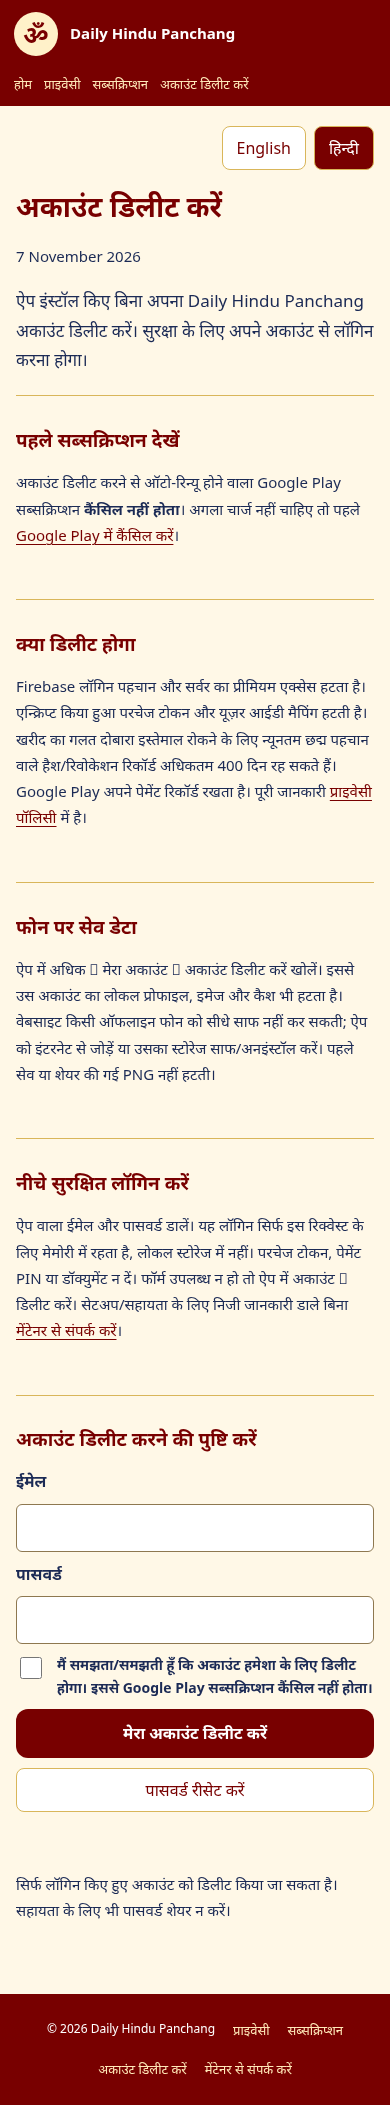
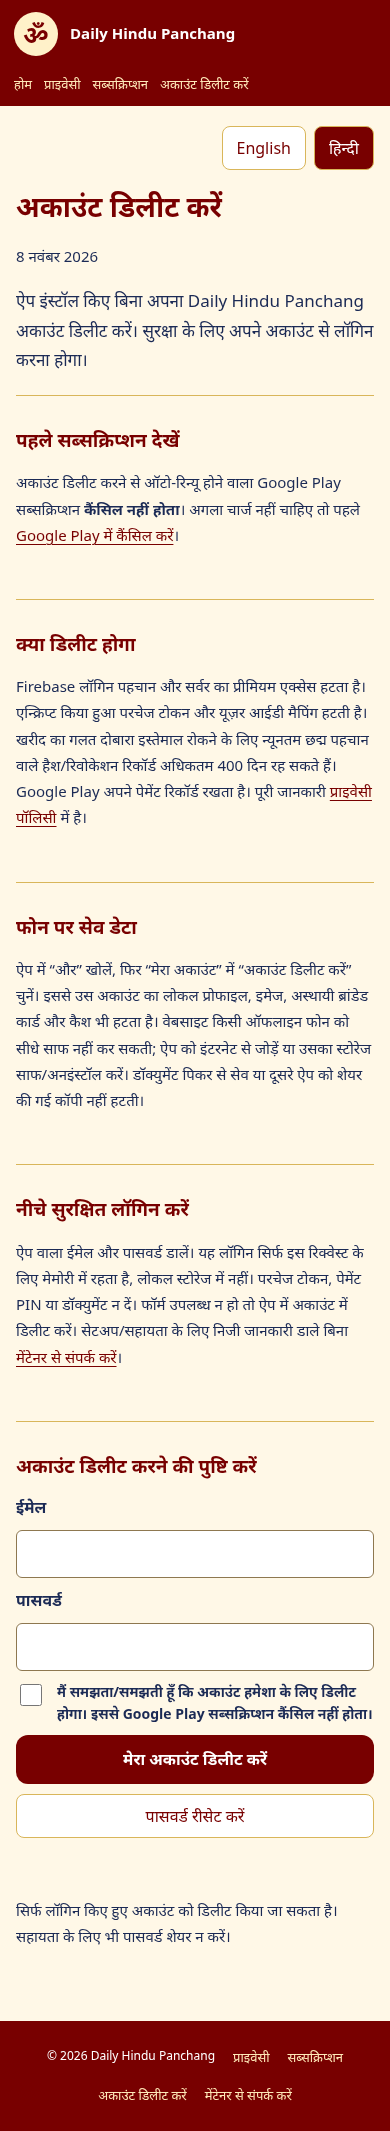
fix(privacy): disclose branded cache cleanup and localize Hindi policy dates [skip ci]

diff --git a/account-deletion.html b/account-deletion.html
@@ -36,7 +36,7 @@
       </div>
       <article lang="en" data-lang="en">
         <h1>Delete your account</h1>
-        <p class="updated">7 November 2026</p>
+        <p class="updated">8 November 2026</p>
         <p class="lead">
           Delete your Daily Hindu Panchang account without installing the app.
           You must authenticate as the account owner.
@@ -68,10 +68,10 @@
           <h2>On your phone</h2>
           <p>
             In the app, open More → My Account → Delete account. That also
-            removes the current account’s local Brand Profile, images and
+            removes the current account’s local Brand Profile, images, temporary branded PNG cache and
             entitlement cache. Website deletion cannot erase an offline phone
             remotely; reconnect the app to reconcile deletion, or clear its
-            storage/uninstall. Previously saved or shared PNGs are not deleted.
+            storage/uninstall. Copies saved through the document picker or received by other apps are not deleted.
           </p>
         </section>
         <section>
@@ -92,7 +92,7 @@
       </article>
       <article lang="hi" data-lang="hi" hidden>
         <h1>अकाउंट डिलीट करें</h1>
-        <p class="updated">7 November 2026</p>
+        <p class="updated">8 नवंबर 2026</p>
         <p class="lead">
           ऐप इंस्टॉल किए बिना अपना Daily Hindu Panchang अकाउंट डिलीट करें।
           सुरक्षा के लिए अपने अकाउंट से लॉगिन करना होगा।
@@ -122,10 +122,10 @@
         <section>
           <h2>फोन पर सेव डेटा</h2>
           <p>
-            ऐप में अधिक → मेरा अकाउंट → अकाउंट डिलीट करें खोलें। इससे उस अकाउंट
-            का लोकल प्रोफाइल, इमेज और कैश भी हटता है। वेबसाइट किसी ऑफलाइन फोन को
+            ऐप में “और” खोलें, फिर “मेरा अकाउंट” में “अकाउंट डिलीट करें” चुनें। इससे उस अकाउंट
+            का लोकल प्रोफाइल, इमेज, अस्थायी ब्रांडेड कार्ड और कैश भी हटता है। वेबसाइट किसी ऑफलाइन फोन को
             सीधे साफ नहीं कर सकती; ऐप को इंटरनेट से जोड़ें या उसका स्टोरेज
-            साफ/अनइंस्टॉल करें। पहले सेव या शेयर की गई PNG नहीं हटती।
+            साफ/अनइंस्टॉल करें। डॉक्युमेंट पिकर से सेव या दूसरे ऐप को शेयर की गई कॉपी नहीं हटती।
           </p>
         </section>
         <section>
@@ -133,7 +133,7 @@
           <p>
             ऐप वाला ईमेल और पासवर्ड डालें। यह लॉगिन सिर्फ इस रिक्वेस्ट के लिए
             मेमोरी में रहता है, लोकल स्टोरेज में नहीं। परचेज टोकन, पेमेंट PIN या
-            डॉक्युमेंट न दें। फॉर्म उपलब्ध न हो तो ऐप में अकाउंट → डिलीट करें।
+            डॉक्युमेंट न दें। फॉर्म उपलब्ध न हो तो ऐप में अकाउंट में डिलीट करें।
             सेटअप/सहायता के लिए निजी जानकारी डाले बिना
             <a
               href="https://github.com/parimalnarayan/Daily-Hindu-Panchang-App/issues"

diff --git a/privacy-policy.html b/privacy-policy.html
@@ -36,7 +36,7 @@
       </div>
       <article lang="en" data-lang="en">
         <h1>Privacy policy</h1>
-        <p class="updated">7 November 2026</p>
+        <p class="updated">8 November 2026</p>
         <p class="lead">
           Daily Hindu Panchang keeps daily Panchang calculations and card
           rendering on your phone. Accounts and Premium are optional.
@@ -137,7 +137,7 @@
             >
             on this website or Account → Delete in the app. Successful deletion
             removes the Firebase identity and authoritative entitlement. The app
-            also removes the current account’s local Brand Profile, media and
+            also removes the current account’s local Brand Profile, media, temporary branded PNG cache and
             cached entitlement. Website deletion cannot directly erase an
             offline phone; reconnect it to reconcile deletion, or clear app
             storage/uninstall. Minimal pseudonymous purchase-token/account
@@ -169,7 +169,7 @@
       </article>
       <article lang="hi" data-lang="hi" hidden>
         <h1>प्राइवेसी पॉलिसी</h1>
-        <p class="updated">7 November 2026</p>
+        <p class="updated">8 नवंबर 2026</p>
         <p class="lead">
           Daily Hindu Panchang में पंचांग की गणना और कार्ड बनाना आपके फोन पर
           होता है। अकाउंट और प्रीमियम लेना आपकी मर्ज़ी है।
@@ -250,10 +250,10 @@
         <section>
           <h2>डेटा कितने समय रहता है</h2>
           <p>
-            ऐप में अकाउंट → डिलीट या वेबसाइट के
+            ऐप में अकाउंट में डिलीट या वेबसाइट के
             <a href="account-deletion.html">अकाउंट डिलीट</a> पेज का उपयोग करें।
             Firebase पहचान और सर्वर का प्रीमियम एक्सेस हटता है। ऐप से डिलीट करने
-            पर उस अकाउंट का लोकल प्रोफाइल, इमेज और कैश भी हटता है। वेबसाइट किसी
+            पर उस अकाउंट का लोकल प्रोफाइल, इमेज, अस्थायी ब्रांडेड कार्ड और कैश भी हटता है। वेबसाइट किसी
             ऑफलाइन फोन को सीधे साफ नहीं कर सकती; फोन को इंटरनेट से जोड़ें या ऐप
             का स्टोरेज साफ करें। गलत तरीके से खरीद दोबारा इस्तेमाल होने से रोकने
             और पेमेंट विवाद के लिए न्यूनतम छद्म पहचान वाले हैश/रिवोकेशन रिकॉर्ड

diff --git a/subscription-terms.html b/subscription-terms.html
@@ -36,7 +36,7 @@
       </div>
       <article lang="en" data-lang="en">
         <h1>Premium subscription terms</h1>
-        <p class="updated">7 November 2026</p>
+        <p class="updated">8 November 2026</p>
         <p class="lead">
           One optional annual plan. The free Panchang and standard card remain
           available without payment or mandatory login.
@@ -130,7 +130,7 @@
       </article>
       <article lang="hi" data-lang="hi" hidden>
         <h1>प्रीमियम सब्सक्रिप्शन के नियम</h1>
-        <p class="updated">7 November 2026</p>
+        <p class="updated">8 नवंबर 2026</p>
         <p class="lead">
           एक वैकल्पिक सालाना प्लान। फ्री पंचांग और सामान्य कार्ड के लिए पेमेंट
           या लॉगिन ज़रूरी नहीं है।

diff --git a/tests/test_site.py b/tests/test_site.py
@@ -28,6 +28,7 @@ class PolicySiteTest(unittest.TestCase):
      self.assertEqual(self.page.locator('article:visible').count(),1)
      self.assertLessEqual(self.page.evaluate('document.documentElement.scrollWidth'),width)
      self.assertTrue(self.page.locator('h1:visible').inner_text())
+     self.assertEqual(self.page.locator('.updated:visible').inner_text(),'8 नवंबर 2026' if lang=='hi' else '8 November 2026')
      if width==390:
       self.page.screenshot(path=str(ROOT/'docs/evidence'/f'{lang}-{path[:-5]}.png'),full_page=True)
     for href in self.page.locator('a[href]').evaluate_all('(xs)=>xs.map(x=>x.getAttribute("href"))'):

diff --git a/README.md b/README.md
@@ -28,4 +28,4 @@ Static policy reading works without Firebase configuration. Backend deployment, 
 
 ### Local verification
 
-Run `python3 -m http.server 8008 --bind 127.0.0.1` in the repository. With Python Playwright and Chromium installed, run `python3 tests/test_site.py` (`SITE_URL` can override the local origin). Six checks cover English/Hindi at 360/390/430 widths, dark mode, local links, missing configuration, in-memory auth, deletion success/error presentation using intercepted SDK fixtures, reset-password flow and the unchanged app-ads publisher record. Browser fixtures do not establish production Firebase deletion. Synthetic screenshots are in `docs/evidence`.
+Run `python3 -m http.server 8008 --bind 127.0.0.1` in the repository. With Python Playwright and Chromium installed, run `python3 tests/test_site.py` (`SITE_URL` can override the local origin). Six checks cover English/Hindi at 360/390/430 widths, dark mode, local links, missing configuration, in-memory auth, deletion success/error presentation using intercepted SDK fixtures, reset-password flow and the unchanged app-ads publisher record. Browser fixtures do not establish production Firebase deletion. Actual local-browser screenshots are in `docs/evidence`; authentication SDK responses in form tests are fixtures. The 2026-11-08 rerun passes all six checks, including localized policy dates. Deletion disclosures match account-scoped temporary PNG cleanup in the Android app; externally saved/shared copies remain outside app cleanup.
